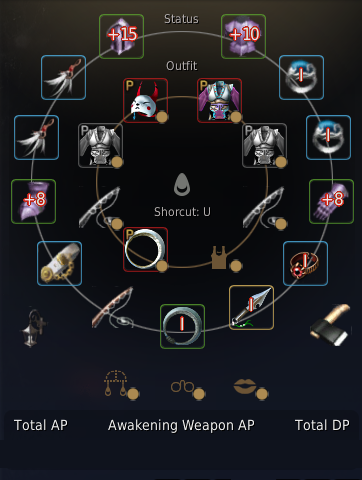
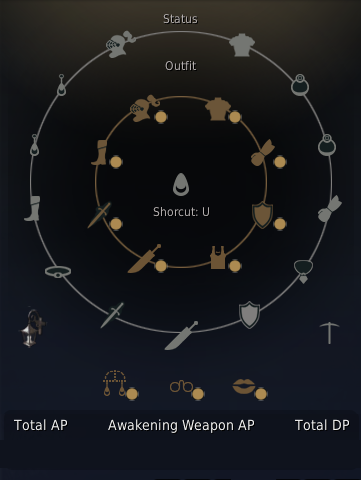
Update background images and css

diff --git a/css/main.css b/css/main.css
@@ -27,72 +27,71 @@ body {
 .character-items .slot {
     width: 45px;
     height: 45px;
-    background-color: grey;
 }
 
 .character-items .slot-head {
     position: absolute;
-    top: 14px;
-    left: 99px;
+    top: 22px;
+    left: 95px;
 }
 .character-items .slot-chest {
     position: absolute;
-    top: 14px;
-    left: 221px;
+    top: 22px;
+    left: 219px;
 }
 .character-items .slot-earring1 {
     position: absolute;
-    top: 55px;
+    top: 61px;
     left: 41px;
 }
 .character-items .slot-ring1 {
     position: absolute;
-    top: 55px;
+    top: 61px;
     left: 279px;
 }
 .character-items .slot-earring2 {
     position: absolute;
-    top: 115px;
+    top: 121px;
     left: 14px;
 }
 .character-items .slot-shoe {
     position: absolute;
-    top: 179px;
+    top: 185px;
     left: 11px;
 }
 .character-items .slot-ring2 {
     position: absolute;
-    top: 115px;
+    top: 121px;
     left: 306px;
 }
 .character-items .slot-gloves {
     position: absolute;
-    top: 179px;
+    top: 185px;
     left: 309px;
 }
 .character-items .slot-waist {
     position: absolute;
-    top: 241px;
+    top: 247px;
     left: 37px;
 }
 .character-items .slot-neck {
     position: absolute;
-    top: 241px;
+    top: 247px;
     left: 283px;
 }
 .character-items .slot-weapon {
     position: absolute;
-    top: 285px;
+    top: 291px;
     left: 90px;
 }
 .character-items .slot-offhand {
     position: absolute;
-    top: 285px;
+    top: 291px;
     left: 229px;
 }
 .character-items .slot-awaken {
     position: absolute;
-    top: 304px;
+    top: 310px;
     left: 160px;
 }
 
@@ -103,7 +102,8 @@ body {
 }
 
 .character-items i.item-none {
-    background-color: blue;
+    border: 1px solid white;
+    border-radius: 3px;
 }
 
 
